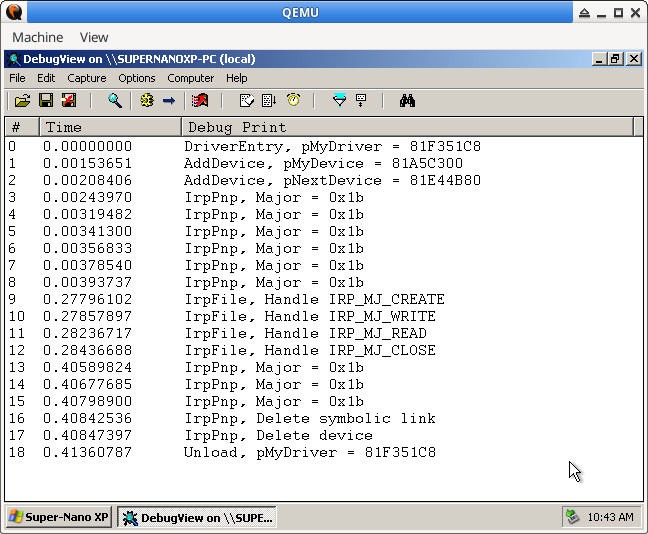
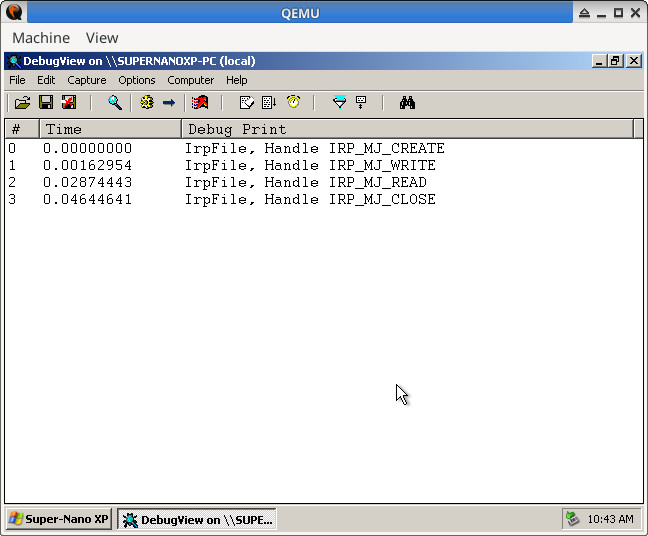
WDM Update example.

diff --git a/driver/wdm_cpp_file.htm b/driver/wdm_cpp_file.htm
@@ -82,6 +82,8 @@ https://wasm.in/<br>
 http://four-f.narod.ru/<br>
 https://github.com/steward-fu/ddk<br><br>
 
+檔案的基本操作有開啟、讀取、寫入和關閉等操作方式，不管在Windows或者Linux系統上，如果Application需要跟驅動程式溝通，一律透過檔案操作方式來跟驅動程式溝通，所以Application開啟驅動程式建立的Symbolic Link時，I/O Manager就會呼叫驅動程式對應的檔案處理Callback，例如：開啟檔案的IRP_MJ_CREATE Callback，而在這個範例，我們只會列出檔案操作時的Debug訊息，熟悉檔案操作的流程<br><br>
+
 main.c
 </p>
 <pre class="brush:cpp">
